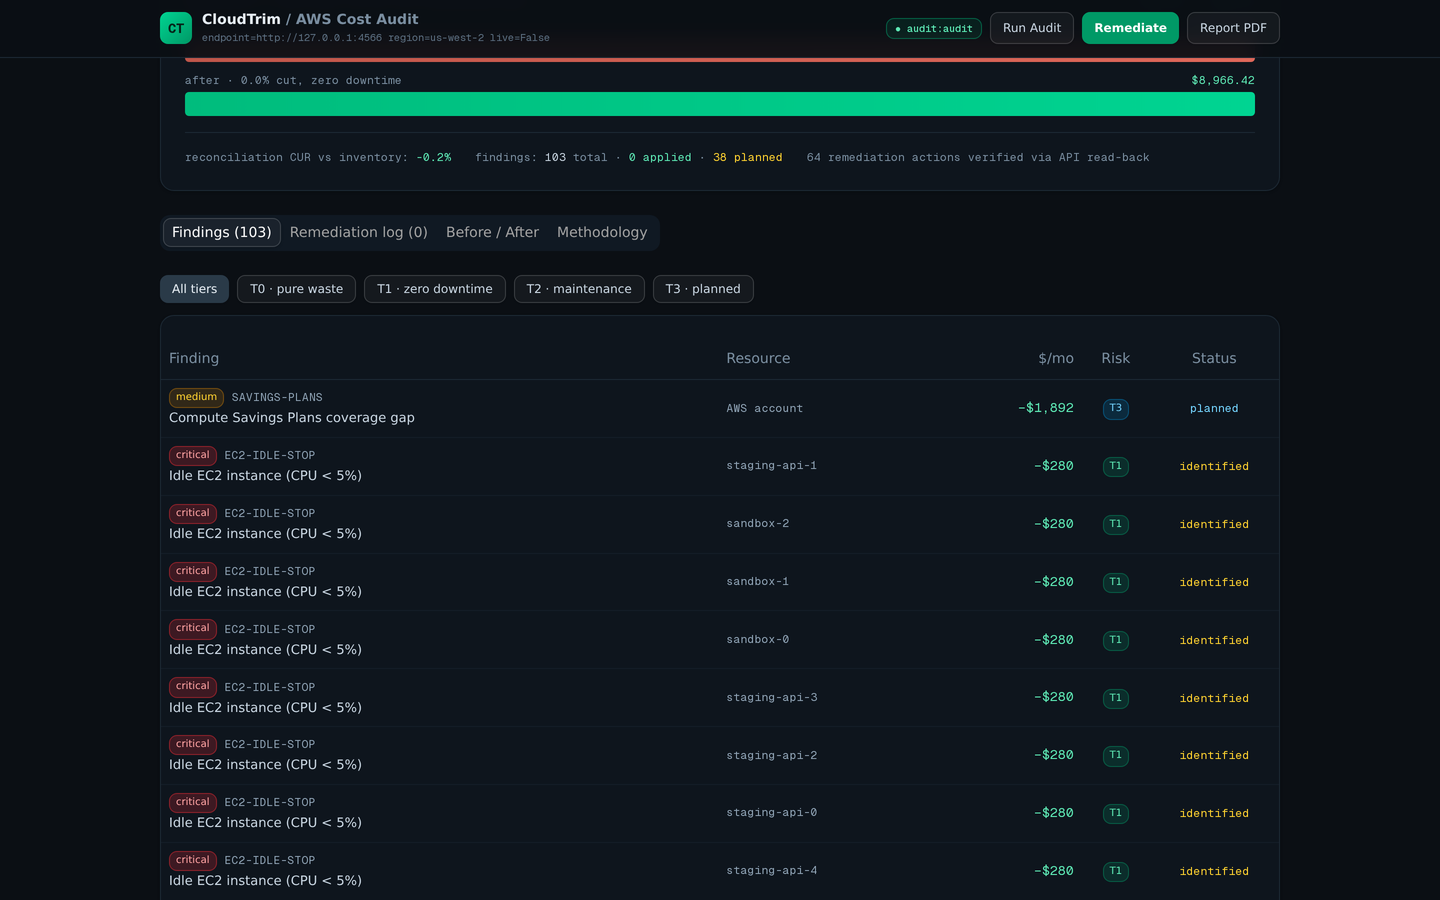
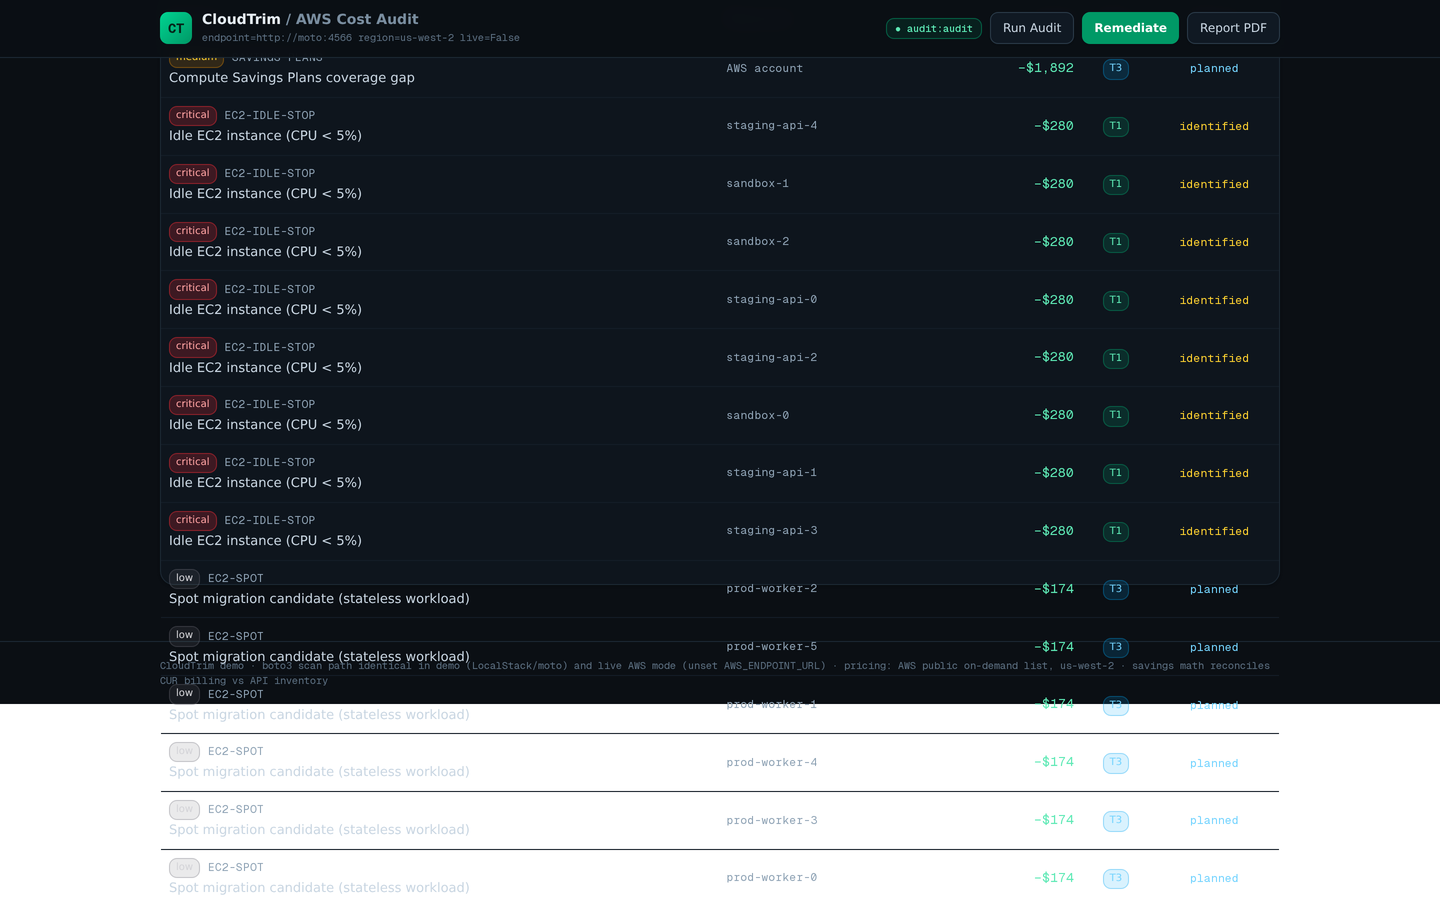
docs: demo GIF + dashboard stills recorded live from the Codespace E2E run
Full engagement driven through the dashboard against the compose stack
(moto 5.2.3): seed $8,703.59/mo -> 99 findings -> 65/65 verified
remediation actions -> re-audit $5,890.53/mo = 32.32% verified reduction.
README proof table updated to the canonical measured numbers.

diff --git a/engine/cloudtrim/seeder.py b/engine/cloudtrim/seeder.py
@@ -3,7 +3,7 @@
 Two stages, both real:
 
   1. TERRAFORM — `terraform apply` of engine/terraform/seed/main.tf against
-     the configured AWS endpoint (LocalStack in compose, moto in CI, or a
+     the configured AWS endpoint (moto in compose/CI, LocalStack Pro, or a
      real AWS scratch account). 25 instances, 30 volumes, 3 orphaned EIPs,
      2 ALBs, 4 S3 buckets, 3 log groups, VPC networking.
 

diff --git a/engine/cloudtrim/config.py b/engine/cloudtrim/config.py
@@ -1,7 +1,7 @@
 """Runtime configuration for the CloudTrim audit engine.
 
 Everything is environment-driven so the same code runs unchanged in:
-  - demo mode  (docker-compose: LocalStack at http://localstack:4566)
+  - demo mode  (docker-compose: moto at http://moto:4566)
   - sandbox CI (moto at http://127.0.0.1:4566)
   - live mode  (real AWS; no AWS_ENDPOINT_URL, standard credential chain)
 """

diff --git a/README.md b/README.md
@@ -23,10 +23,10 @@ The demo seeds a realistic 18-month-old startup AWS account (26 EC2 instances, 3
 
 | Stage | What happens | Measured result |
 |---|---|---|
-| **Connect** | `terraform apply` provisions the wasteful account; 14 days of CloudWatch telemetry + a 60-day CUR billing export are generated from live API state | 110 infra resources, baseline **$8,738.90/mo** |
+| **Connect** | `terraform apply` provisions the wasteful account; 14 days of CloudWatch telemetry + a 60-day CUR billing export are generated from live API state | 110 infra resources, baseline **$8,703.59/mo** |
 | **Audit** | Read-only boto3 inventory scan (paginated describe calls), CUR parsing, 22-rule catalog evaluation, bottom-up cost model cross-check | **99 findings**, CUR-vs-inventory reconciliation **−0.2%** |
-| **Remediate** | Tier 0/1 actions applied via real AWS API calls, each **verified by read-back**; Terraform remediation modules (1.5+ `import` blocks) generated as client artifacts | **64/64 actions verified**, 0 pending |
-| **Verify** | CUR regenerated from post-remediation state, full re-audit | **$8,738.90 → $5,951.67/mo = 31.89% verified reduction** ($33,447/yr) |
+| **Remediate** | Tier 0/1 actions applied via real AWS API calls, each **verified by read-back**; Terraform remediation modules (1.5+ `import` blocks) generated as client artifacts | **65/65 actions verified**, 0 pending |
+| **Verify** | CUR regenerated from post-remediation state, full re-audit | **$8,703.59 → $5,890.53/mo = 32.32% verified reduction** ($33,757/yr) |
 
 Zero customer-facing downtime: every applied action is Tier 0 (pure waste) or Tier 1
 (in-place AWS operations). Tier 2/3 roadmap (rightsizing, NAT consolidation, Graviton,
@@ -73,14 +73,14 @@ Three layers, all real:
    which is what an emulator can't natively provide.
 2. **The code path is production code.** The engine talks to AWS through one seam
    (`cloudtrim/aws.py`): with `AWS_ENDPOINT_URL` set it points at the AWS-compatible
-   emulator (LocalStack in compose); unset, the identical code scans a real AWS
+   emulator (moto in compose); unset, the identical code scans a real AWS
    account through the standard credential chain.
 3. **The money math reconciles.** Savings come from real us-west-2 list pricing times
    live inventory, cross-checked against the CUR billing file every audit. The
    reconciliation variance is printed in the report (typically < ±0.5% here; in live
    audits it catches CUR lag and pricing drift).
 
-What's deliberately demo-only: the emulator itself (LocalStack), the seeded telemetry
+What's deliberately demo-only: the emulator itself (moto), the seeded telemetry
 and billing history, and live-only rules (RDS, ElastiCache, Lambda concurrency) that
 evaluate quietly where the APIs aren't emulated. Everything else — scanning, rules,
 remediation, verification, reporting — is the shipped code.
@@ -106,7 +106,9 @@ them through the engine or the generated Terraform modules via your CI.
 
 ```
 docker compose
-├── localstack   LocalStack 3.8.1 (pinned) — AWS-compatible API endpoint
+├── moto          moto 5.2.3 (pinned) — AWS API emulator (full community coverage:
+│   │             EC2, ELBv2, S3, CloudWatch, Logs, STS; LocalStack Pro works too —
+│   │             community LocalStack lacks ELBv2, which the seed needs)
 ├── engine       Python 3.12 + Terraform 1.9 — cloudtrim package
 │   ├── aws.py           endpoint-agnostic boto3 client factory (the demo/live seam)
 │   ├── scanner.py       paginated read-only inventory + CloudWatch telemetry
@@ -147,11 +149,13 @@ Full specification with detection logic and savings formulas: see the PRD
 
 ## Verified test environments
 
-- **moto 5.2.3** (AWS API emulator, in-process): full E2E — the measured numbers in
-  this README come from this run.
-- **LocalStack 3.8.1** (docker-compose): the shipped demo target. Community-edition
-  API coverage; any remediation action the emulator can't land stays `pending` in the
-  audit log — the engine never claims a change it couldn't verify.
+- **moto 5.2.3, docker-compose** (AWS API emulator, pinned): the shipped demo target —
+  full E2E (seed → audit → remediate → verified reduction) in Codespaces and on any
+  Docker host. The measured numbers in this README come from this stack.
+- **moto 5.2.3, in-process** (CI-style): same code path, same results.
+- **LocalStack Pro**: drop-in alternative — point the engine's `AWS_ENDPOINT_URL` at it.
+  (Community-edition LocalStack is not sufficient: ELBv2 is Pro-only, and the
+  wasteful-account seed creates 2 ALBs.)
 - **Terraform 1.9.8**: seed module (110 resources) and generated remediation modules
   (import blocks) both applied successfully.
 
